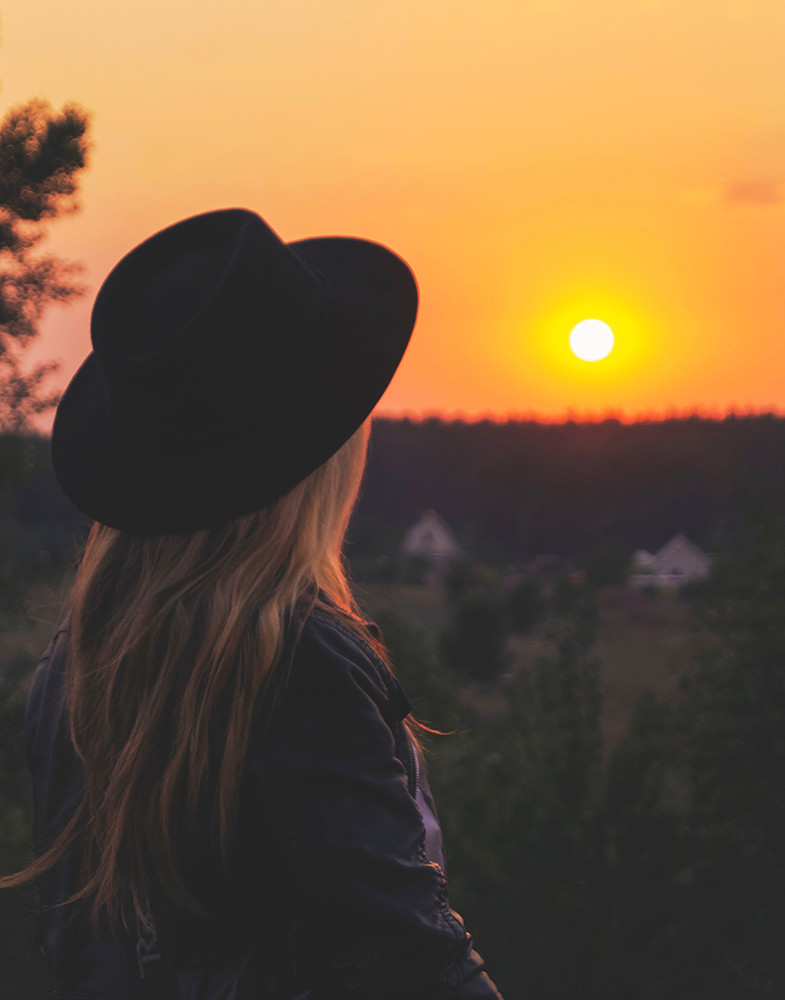
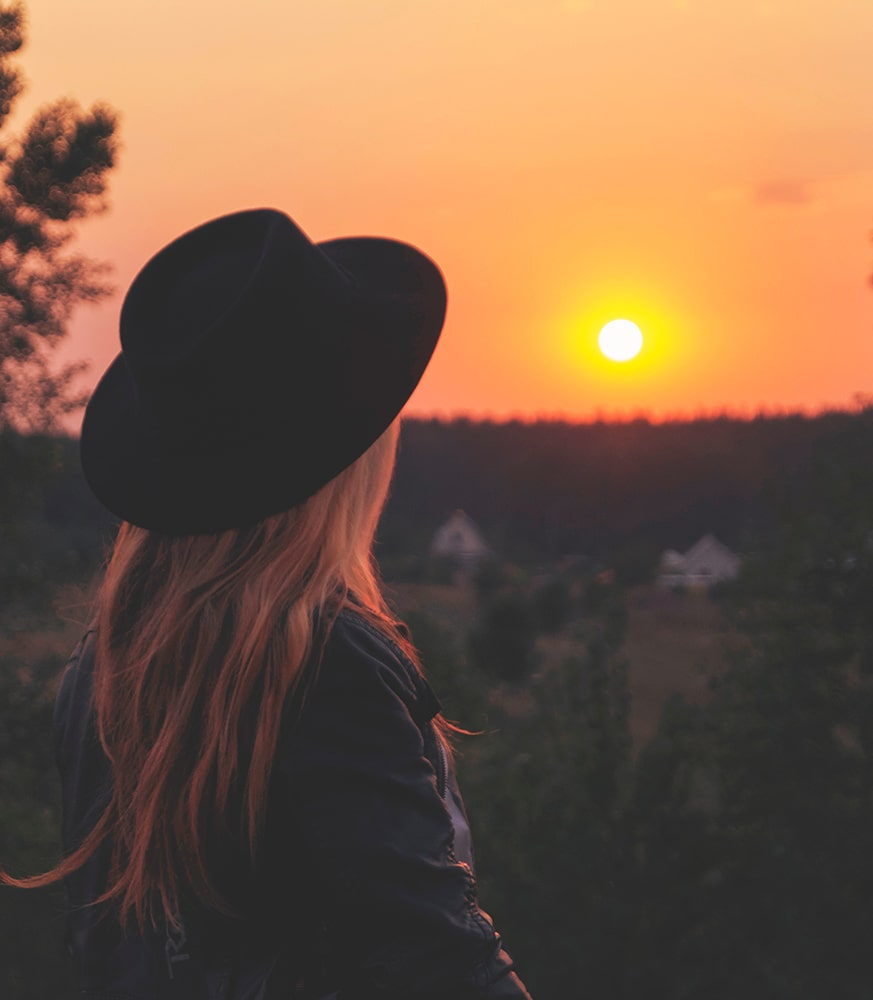
changes

diff --git a/style.css b/style.css
@@ -1,5 +1,6 @@
 body{
   margin: 0;
+  overflow-x: hidden;
 }
 
 header{
@@ -160,6 +161,7 @@ main{
 .upsideDownText{
   z-index: 1;
   top: 22vw;
+  font-size: 0.95vw;
   position: fixed;
 }
 
@@ -171,13 +173,15 @@ main{
 
 .girlSunPhoto{
   background-image: url('img/girlSun.jpg');
-  background-size: cover;
+  background-size: auto 100%;
   padding-top: 0.1px;
   margin-top: 12.74vw;
   margin-left: 36.666vw;
-  width: 58.07vw;
-  /* height: 74.074vw; */
-  height: 0vw;
+  background-repeat: no-repeat;
+  /* width: 58.07vw; */
+  /* width: 63.259vw; */
+  height: 74.074vw;
+  width: 0vw;
   animation-duration: 3s;
   animation-fill-mode: forwards;
 }
@@ -186,10 +190,10 @@ main{
 }
 @keyframes girlSunPhoto{
   0%{
-    height: 0vw;
   }
   100%{
     height: 74.074vw;
+    width: 62.359vw;
   }
 }
 
